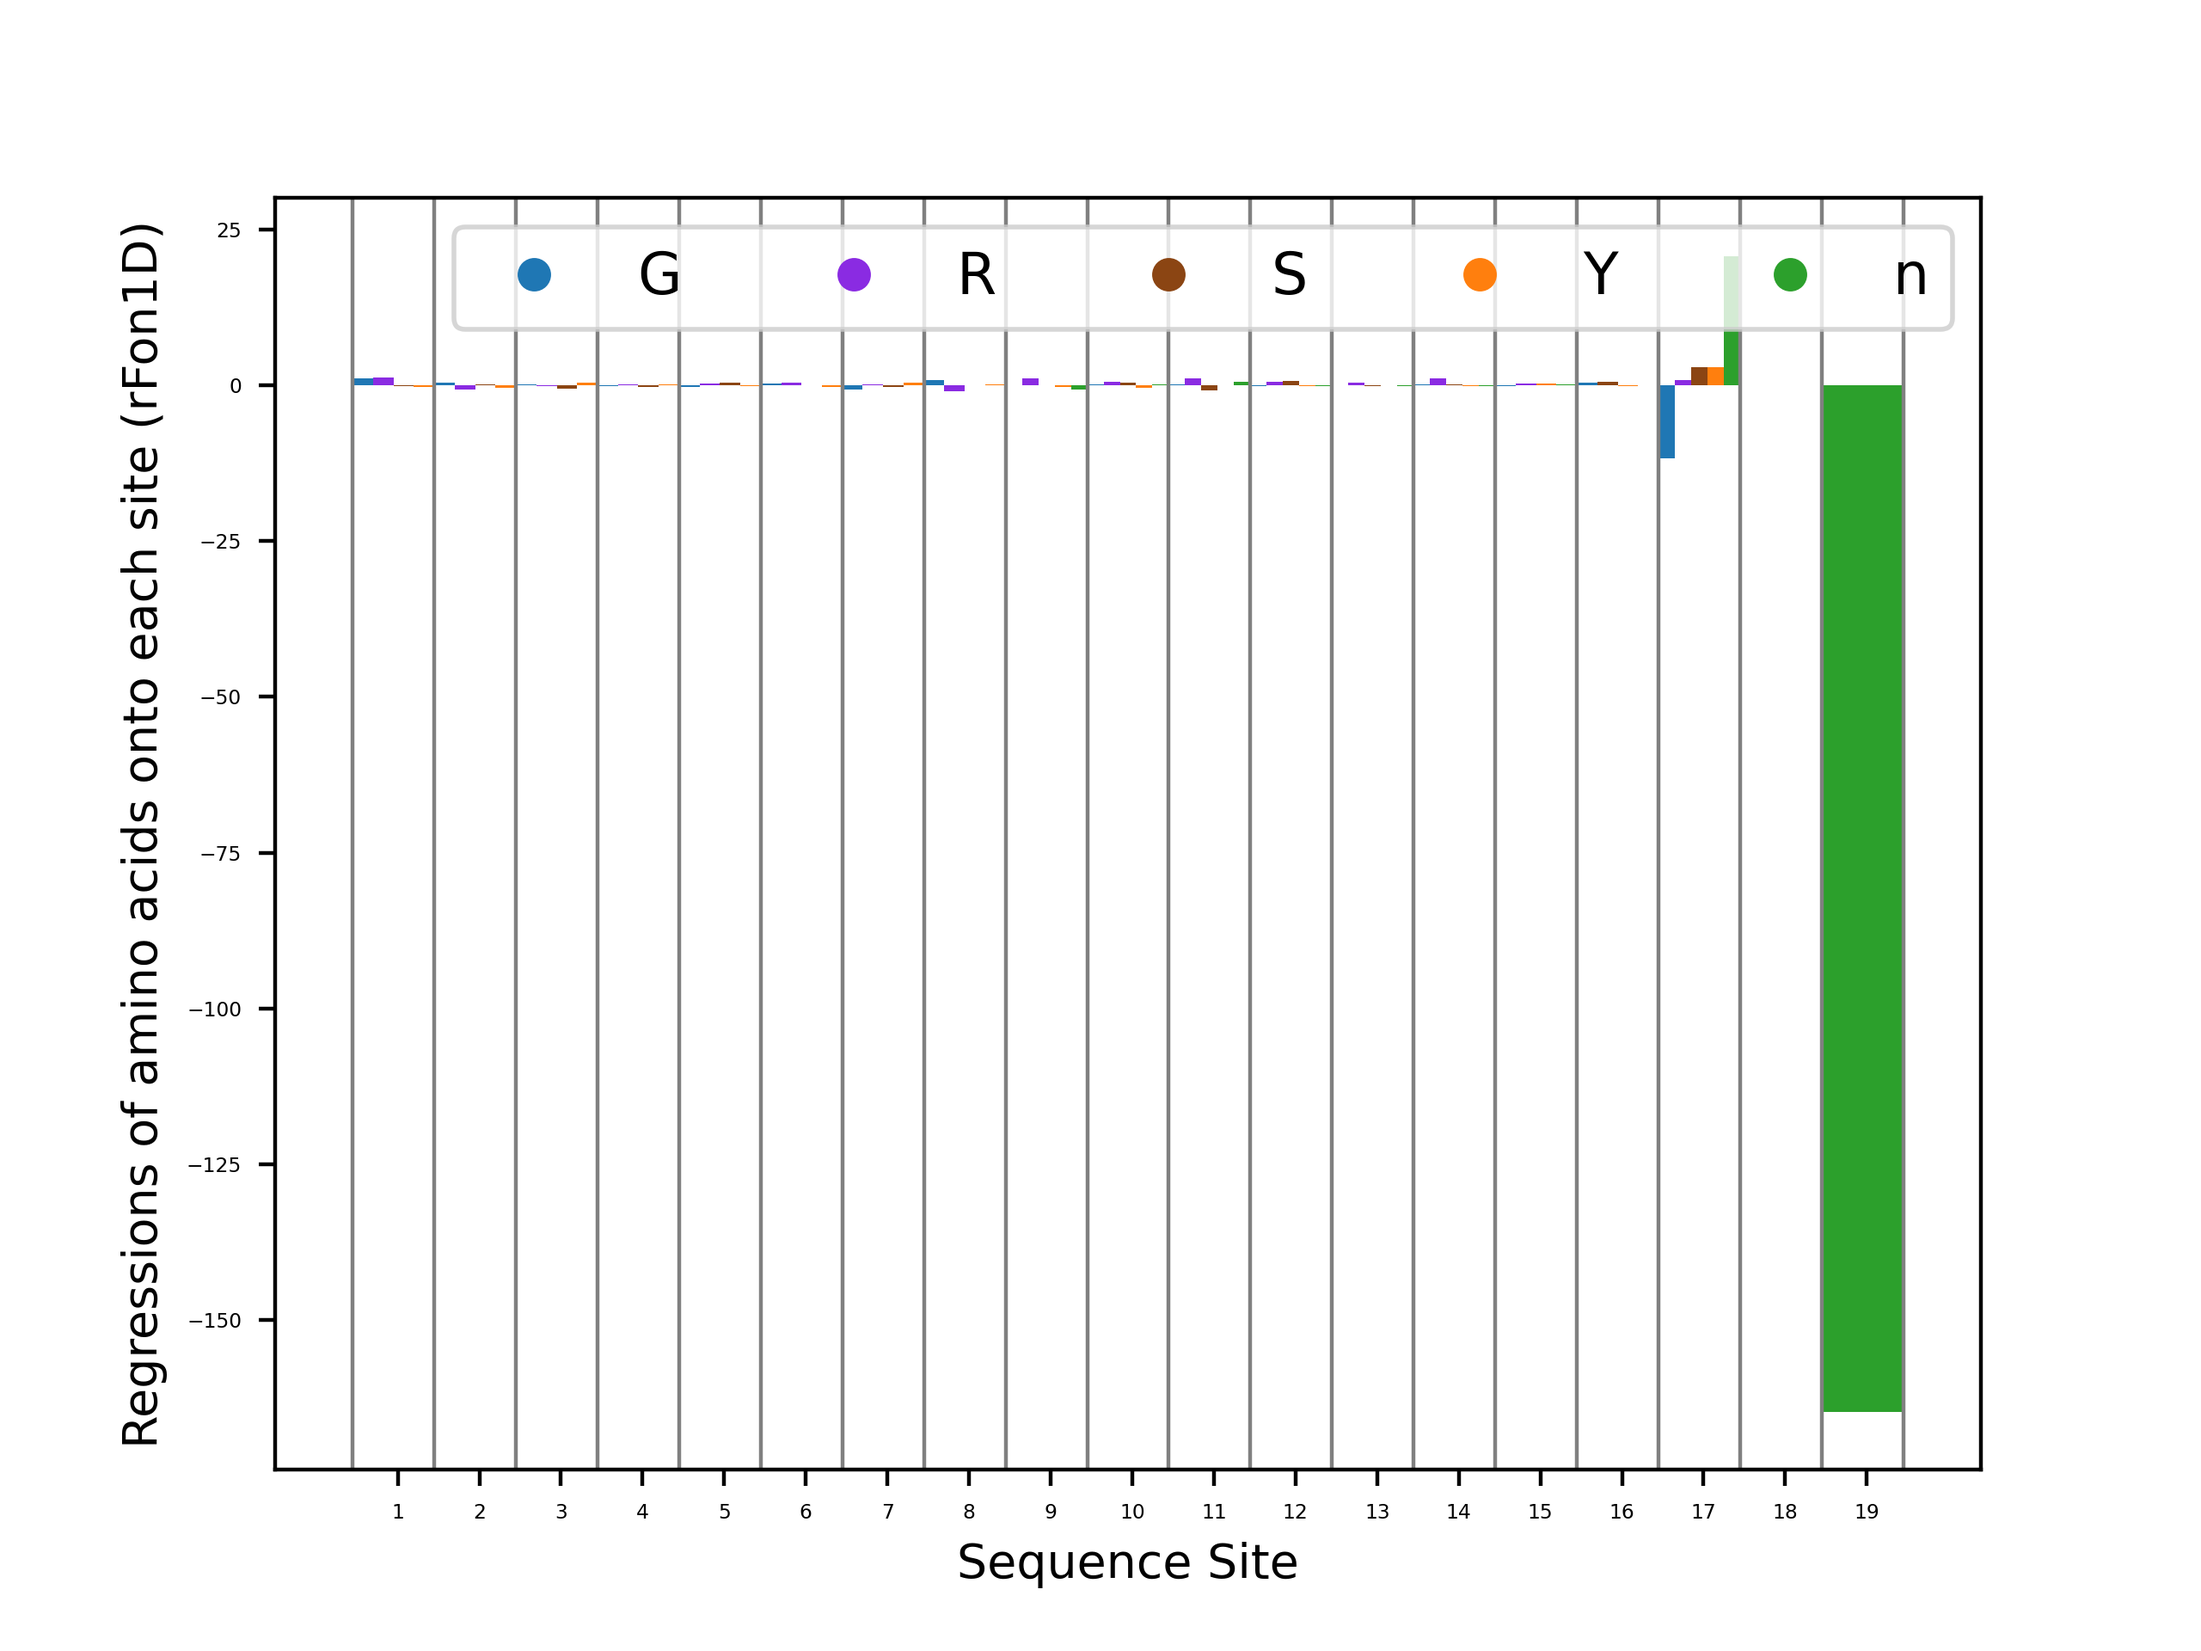
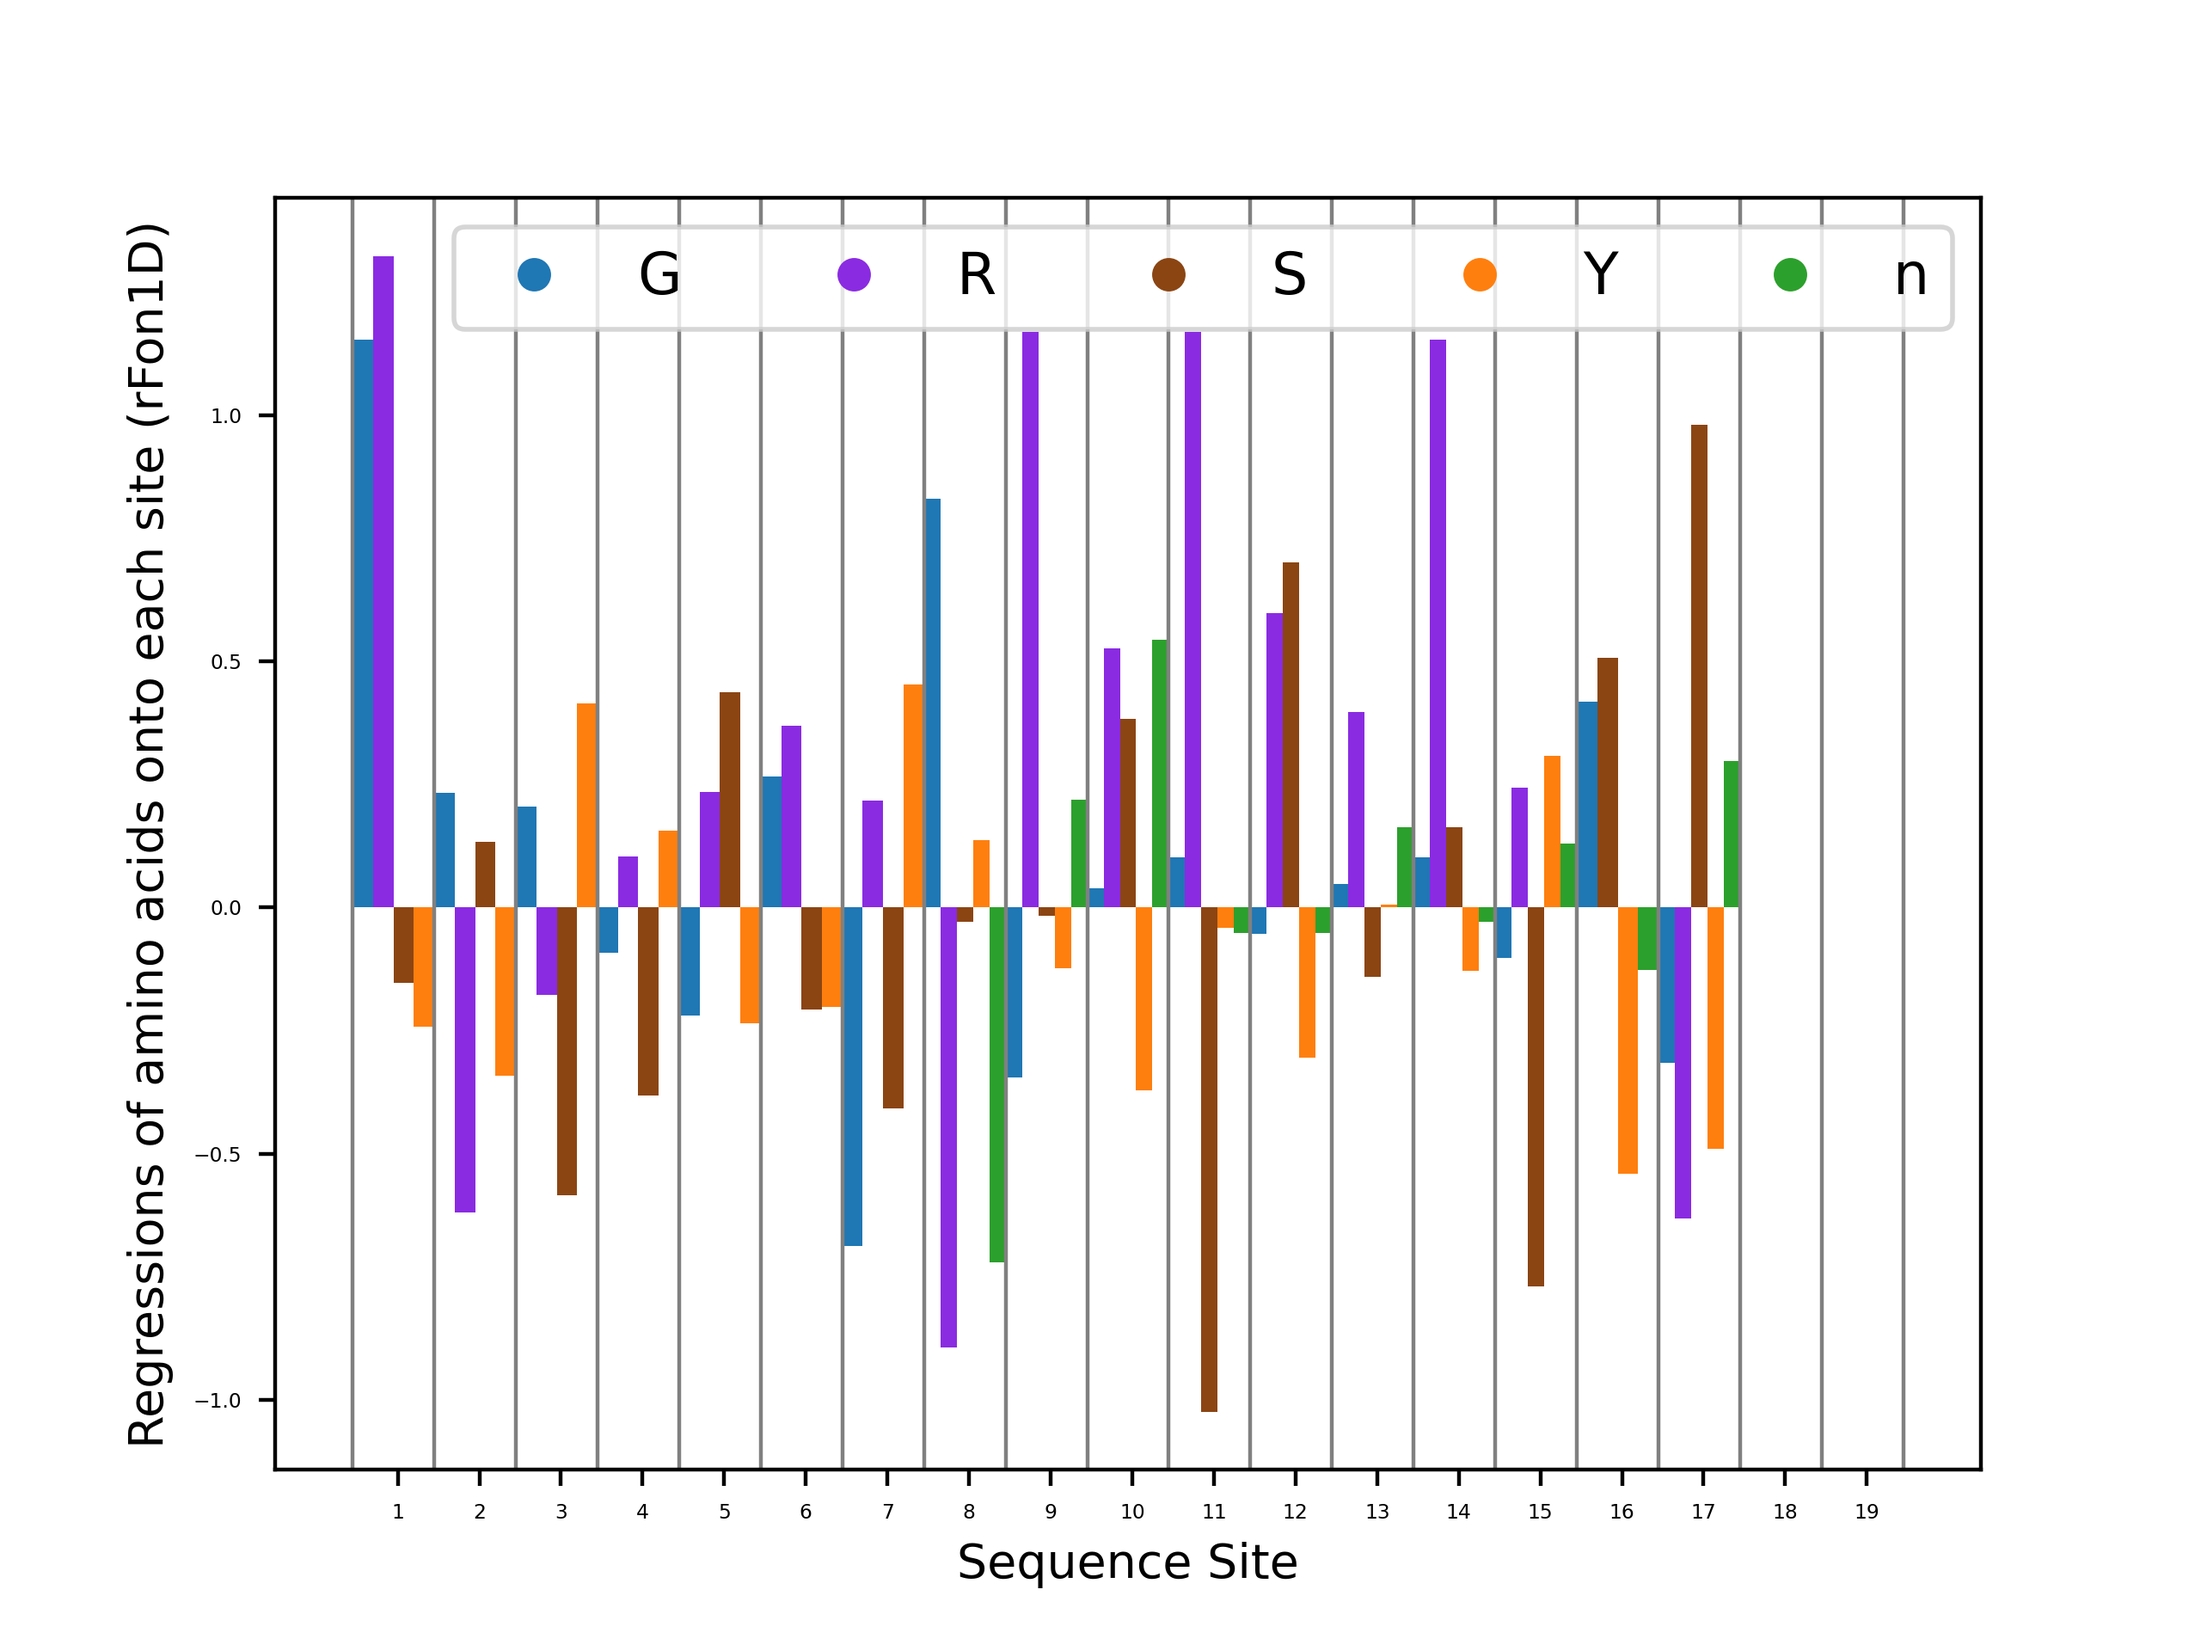
Alphabet bug

diff --git a/ortho_seq_code/orthogonal_polynomial.py b/ortho_seq_code/orthogonal_polynomial.py
@@ -84,14 +84,14 @@ def orthogonal_polynomial(
             # Assign group names to the group
             aa_dict = dict()
             for i in range(len(custom_aa)):
-                aa_dict["G" + str(i)] = list(np.unique(list(custom_aa[i])))
+                aa_dict[i] = list(np.unique(list(custom_aa[i])))
             if "n" in seq_list:
                 aa_dict["n"] = ["n"]
                 custom_aa.append("n")
             # Replaces amino acids with groups
-            for i in aa_dict:
+            for i in range(custom_aa):
                 for j in i:
-                    seq_list_sub = np.where(seq_list == j, i.key(), seq_list)
+                    seq_list_sub = np.where(seq_list == j, aa_dict[i].key(), seq_list)
             alphabets = aa_dict.keys()
         else:
             alphabets = sorted(list(alphbt_input))
